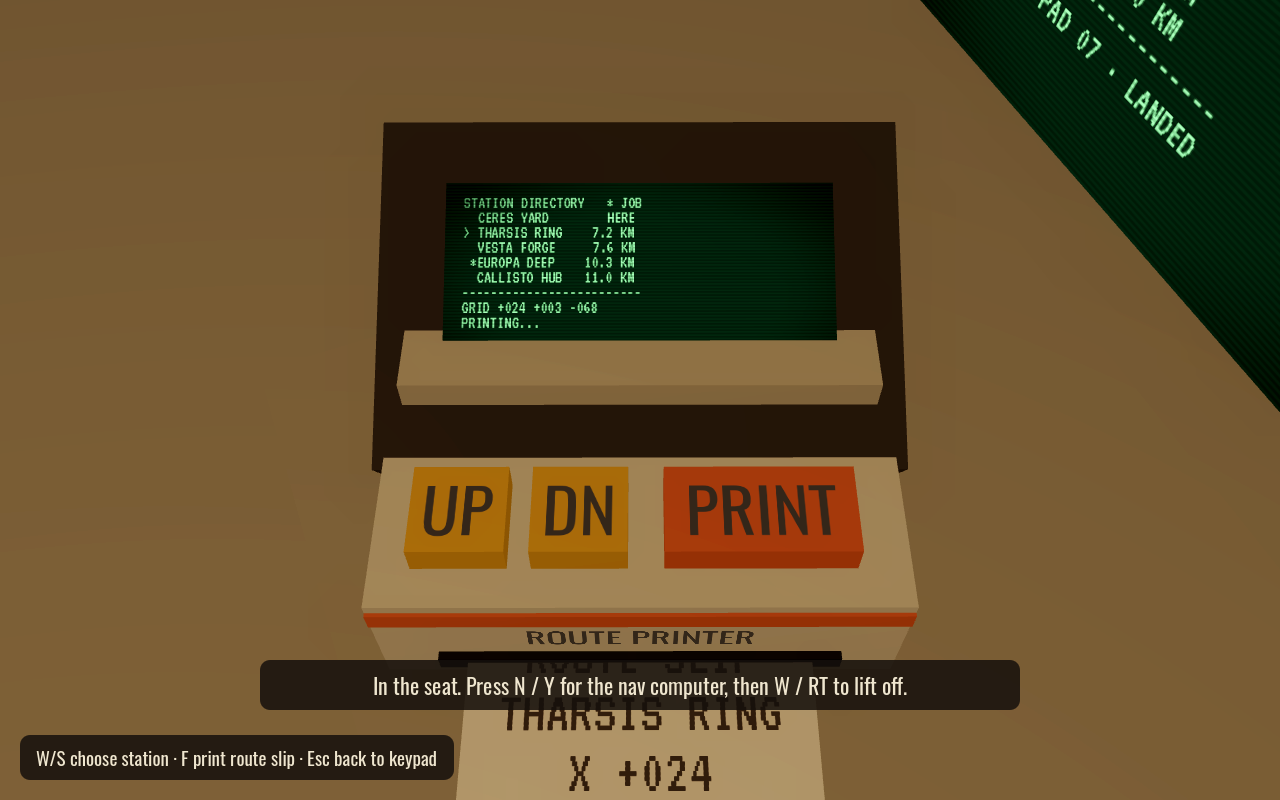
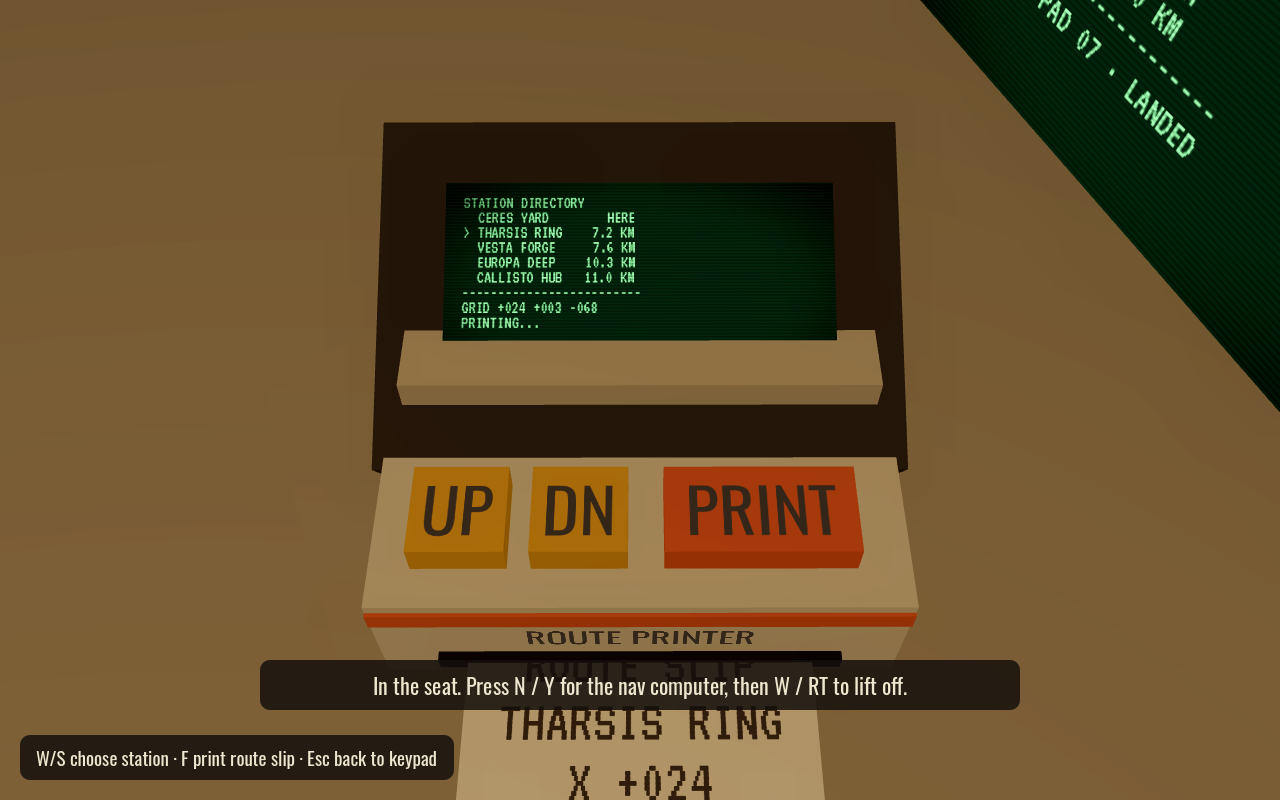
Fix supervisor review findings on contracts and cruise
- Cruise no longer drops out at the station you just left. The ship
  remembers where it took off from and ignores that station until it is
  3 km out or lands. The selftest flies Vesta Forge to Europa Deep on the
  keys from the pad (Space, W, arrows, C) to cover it; that check fails
  without the fix.
- Contract board: offers turning over keep the cursor on the same job; after
  a delivery or abandon the cursor moves to your next job or the first
  offer and F is ignored for 0.3 s, so a double tap can't sign a job; the
  sign line shows hold room and warns when a job won't fit.
- Abandon penalties never take credits below zero.
- Job crates get a cream band edged in dark brown, readable on Machine
  Parts too.
- Board turnover is off under --selftest (one check turns it on briefly).
  The delivery fee check uses its own arithmetic. The capture run hands
  its job back properly. New screenshots are numbered 15 and 16.
- Route printer font stays at 22: at 24 and 26 the status line is clipped
  on the in-cockpit CRT (checked in captures).

Claude-Session: https://claude.ai/code/session_01My817hd5Kg1Redk8QPD359

diff --git a/README.md b/README.md
@@ -40,7 +40,7 @@ You start on foot on pad 07 at Ceres Yard, behind your ship, the Kestrel-9.
 
 The **Contract Board** is the amber terminal past the exchange in every concourse. Press **F** to use it.
 
-- Each board posts five jobs, with at least one to every other station. Pick one with **W/S** and press **F** to sign it. Its crates appear on pallet 07-B for free, with a mustard **JOB** band.
+- Each board posts five jobs, with at least one to every other station. Pick one with **W/S** and press **F** to sign it. Its crates appear on pallet 07-B for free, with a cream **JOB** band. The sign line shows how much room your hold has left once your other jobs are aboard, and warns when a job won't fit.
 - Load them into your hold like any cargo and fly to the job's destination. The route printer marks job destinations with `*`.
 - At the destination's contract board, press **F** on the job to deliver it. Every crate must be there: in your hands, on pallet 07-B, or in your docked hold. The dock crew charges 10% of the hold crates' share of the pay.
 - Job crates belong to the client. The exchange won't buy them.
